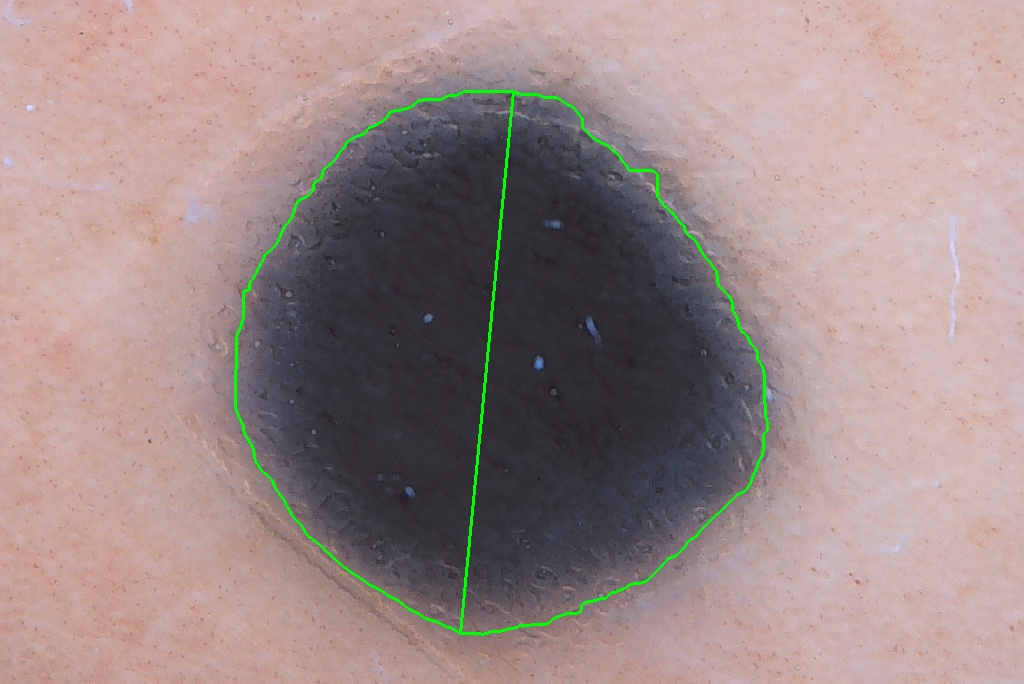
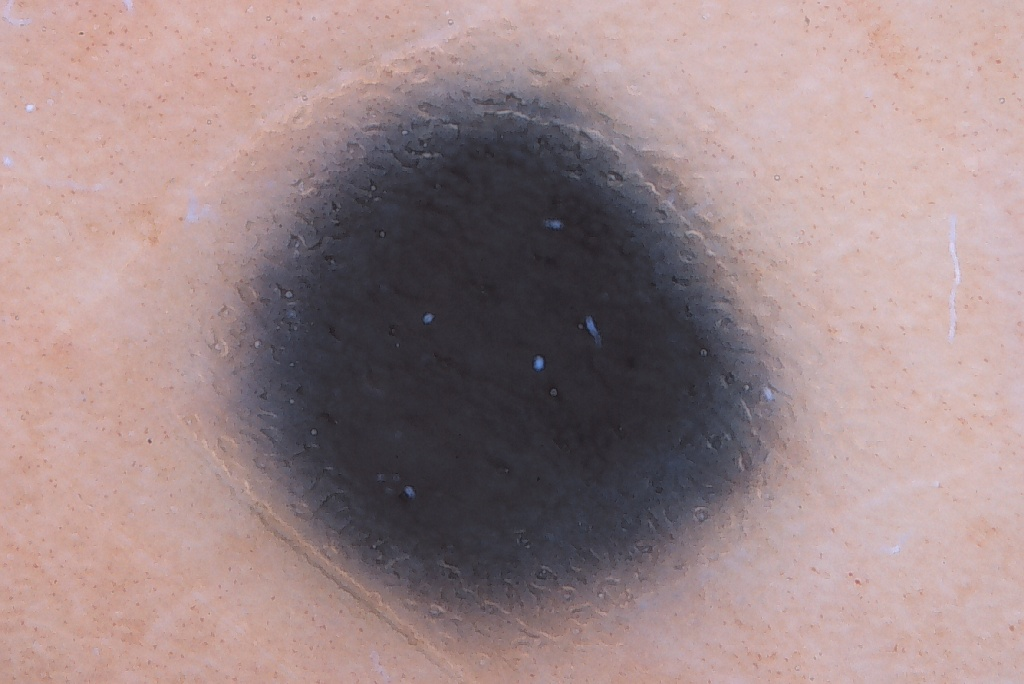
find-center-added

diff --git a/Code/preprocessing.py b/Code/preprocessing.py
@@ -16,6 +16,8 @@ offset_plus = offset_minus*2
 gaussian_blur_kernel = (29,29)
 kernel_for_closing = (29, 29)
 
+dir_out = 'C:/Users/alepa/Desktop/Inz/Out_files/'
+
 # Functions
 def read_image(path):
 	img = cv2.imread(path)
@@ -78,9 +80,11 @@ def bounding_box(contours, img, original_img):
 	ROI_img = original_img[y-offset_minus:y-offset_minus+h+offset_plus, x-offset_minus:x-offset_minus+w+offset_plus]
 	return ROI_img, max_contour, rectangle_coordinates
 
-
-dir_out = 'C:/Users/alepa/Desktop/Inz/Out_files/'
-# for filename in os.listdir(dir):
+def find_center(contour):
+	M = cv2.moments(contour)
+	centerX = int(M["m10"] / M["m00"])
+	centerY = int(M["m01"] / M["m00"])
+	return centerX, centerY
 
 def main_preprocessing():
 	try:
@@ -116,7 +120,7 @@ def main_preprocessing():
 		contours, hier = find_contours(img_closing)
 		# Obtain bounding box, extract and save ROI
 		if len(contours) > 0:
-			ROI_img, max_contour, rectangle_coordinates = bounding_box(contours, img_closing, original_img)
+			ROI_img, max_contour, rectangle_coordinates = bounding_box(contours, img_closing, img)
 		else:
 			print("[INFO] No contours found")
 
@@ -126,7 +130,7 @@ def main_preprocessing():
 		save_img(dir_out+"4 Threshold.jpg", img_thresh)
 		save_img(dir_out+"5 Closing img.jpg", img_closing)
 		save_img(dir_out+"6 ROI img.jpg", ROI_img)
-		
+
 		#Log
 		print("[INFO] File " + full_path + " processed successfully...\n")
 		return original_img, img_gray, gauss_img, img_thresh, img_closing, ROI_img, max_contour, rectangle_coordinates

diff --git a/Code/main.py b/Code/main.py
@@ -1,4 +1,18 @@
 import preprocessing
+import assymetry
+
+import cv2
+
+# A, B, C, D = 0
 
 if __name__=="__main__":
     original_img, img_gray, gauss_img, img_thresh, img_closing, ROI_img, max_contour, rectangle_coordinates = preprocessing.main_preprocessing()
+
+    # A = assymetry.main()
+
+    cx, cy = preprocessing.find_center(max_contour)
+    cv2.circle(ROI_img, (cx, cy), 7, (0, 255, 0), -1)
+    cv2.circle(original_img, (cx, cy), 7, (0, 255, 0), -1)
+
+    preprocessing.show_image("test1", ROI_img)
+    preprocessing.show_image("test2", original_img)

diff --git a/Code/assymetry.py b/Code/assymetry.py
@@ -1,0 +1,6 @@
+def main():
+    A = 0
+
+
+
+    return A
